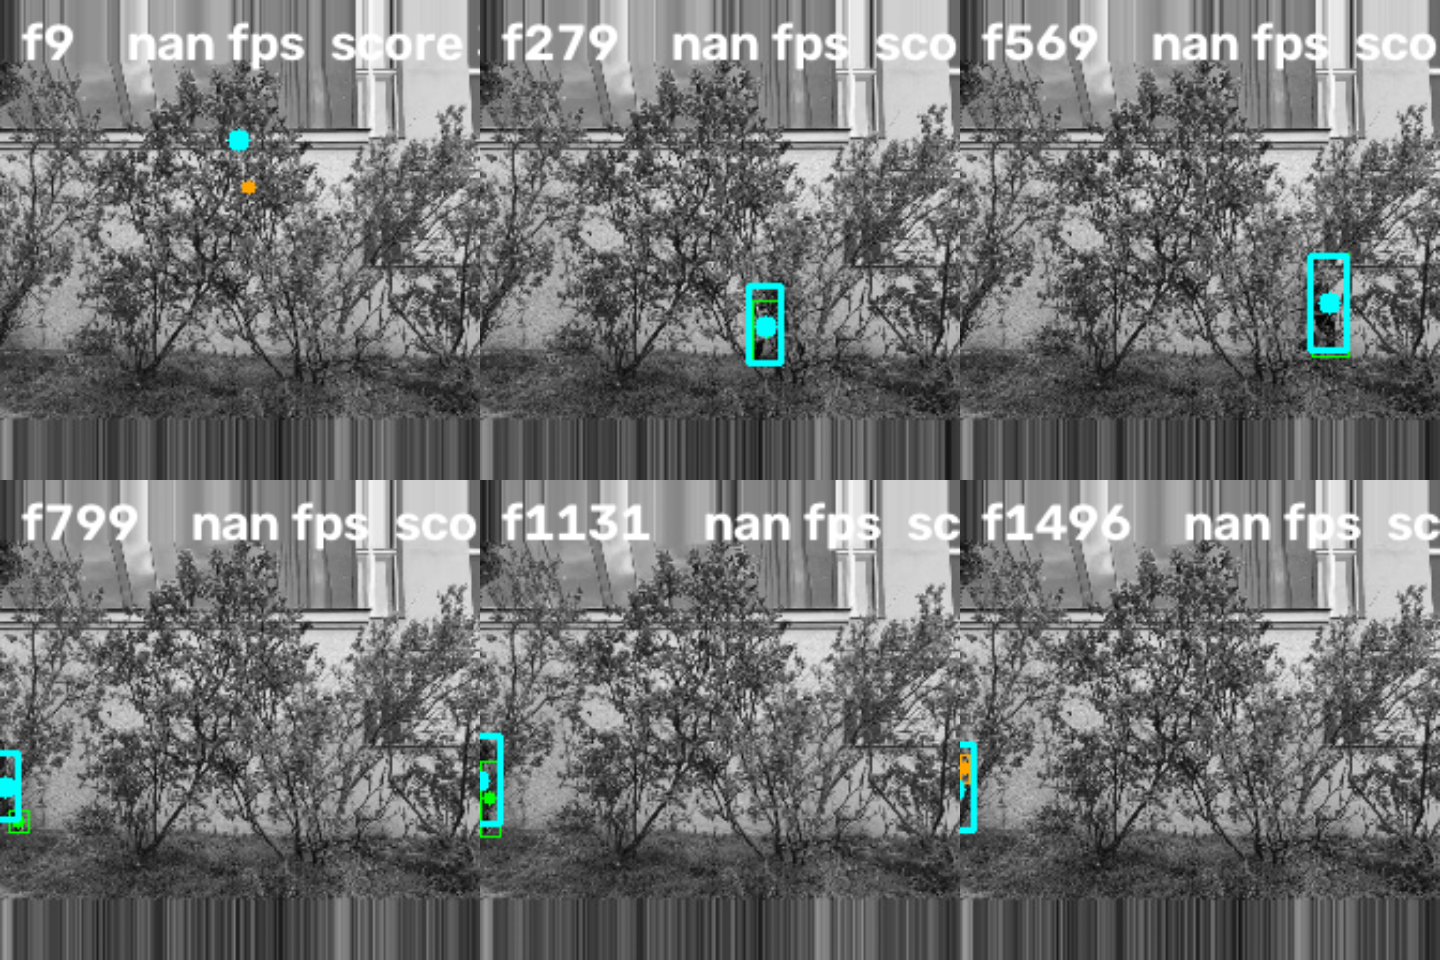
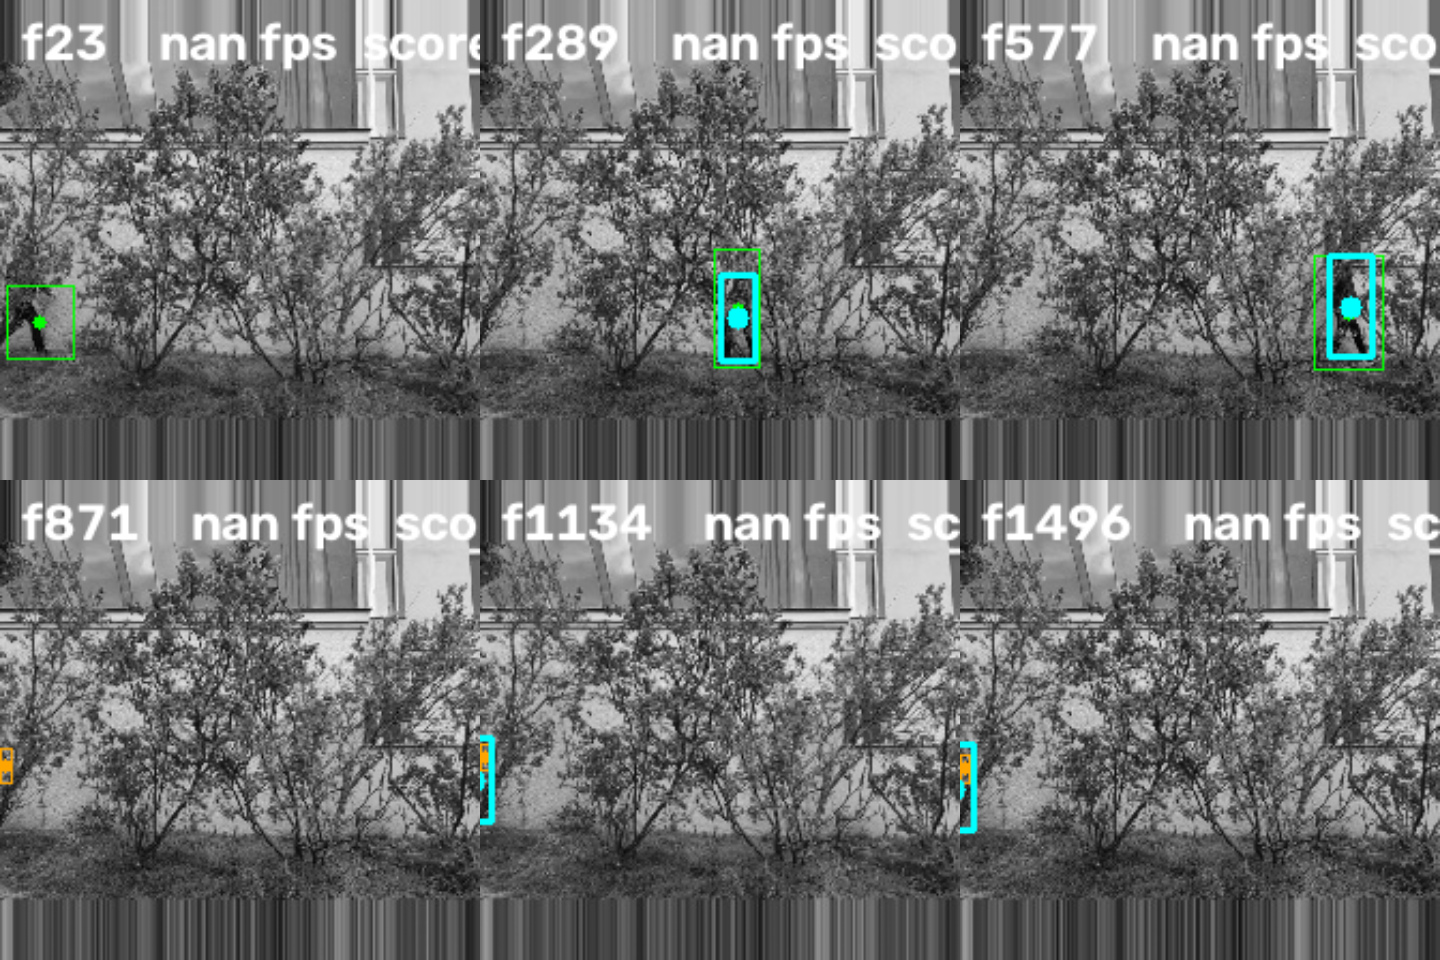
Add the frozen-window demo, warm-up suppression, and optional M-of-N initiation
FROZEN-WINDOW DEMO. tracking/eval/make_frozen_clip.py builds a clip that freezes on one frame
per walk for 2*BUFFER=26 frames, so at least 14 emitted windows consist only of duplicates:
data/ido_walk_frozen.mkv, frozen blocks 110:135 and 355:380.

Measured, identically in both blocks: 23 of 26 emissions carry NO box (88%), and the only ones
that do are the first three, whose 13-frame window still reaches back into real motion. Nothing
special-cases this. MOG2 absorbs the static frame into its background at its learning rate -
detections per frame across the start of a freeze go 3, 3, 1, 0, 0, 0..., absorbed in THREE
frames - so no track reaches min_track_length=3, score_and_fit returns None, and x and box are
both None. The person is plainly visible and standing there; every parameter this tracker has is
defined on motion, so with no motion there is nothing to report. Pinned by
check_a_frozen_window_yields_no_box. Render with --no-smooth for the clean version: the smoother
otherwise coasts a box through the first 8 frames of the freeze before dropping output entirely
for the remaining 13, which is graceful but obscures the point.

EARLY FALSE POSITIVES, and the measurement says they are a different animal from the mid-clip
ones. On ido_walk before the person enters at f31: 25 emissions, 11 with a box. Suppressing
output until MOG2 has seen bg_frames real frames moves the first emission from frame 6 to 23 and
[…]

diff --git a/tracking/stream/stream.py b/tracking/stream/stream.py
@@ -64,7 +64,8 @@ class StreamPipeline:
 
     def __init__(self, person_height: float, bg_frames: int = 30, var_threshold: float = 16.0,
                  readout: str = 'center', min_solidity: float = 0.1, max_age: int = 6,
-                 min_track_length: int = 3, max_detections: int = 40):
+                 min_track_length: int = 3, max_detections: int = 40,
+                 suppress_warmup: bool = True):
         assert readout in ('center', 'newest'), readout
         self.kw, kalman = scale_relative_params(person_height)
         # ponytail: _Track's covariances are class attributes, so this is process-global.
@@ -75,6 +76,13 @@ class StreamPipeline:
         self.readout, self.min_solidity = readout, min_solidity
         self.max_age, self.min_track_length = max_age, min_track_length
         self.max_detections = max_detections
+        # MOG2's learning rate is ~1/history, so before `history` real frames have elapsed the
+        # background model is under-adapted and the mask is full of spurious foreground. That is
+        # the dominant source of early false positives, and track_sequence's own docstring
+        # already says any window before bg_frames have elapsed is under-adapted. Suppressing
+        # output until then costs the first bg_frames-1-SPAN emissions and introduces no new
+        # constant.
+        self.warmup = bg_frames if suppress_warmup else 0
         # one persistent subtractor: preprocess.foreground_mask builds a fresh MOG2 per
         # call, which is exactly what a stream must not do
         self.mog = cv2.createBackgroundSubtractorMOG2(history=bg_frames,
@@ -94,7 +102,7 @@ class StreamPipeline:
         self.frames.append(frame)
         self.dets.append(dets)
         self.seen += 1
-        if len(self.frames) < BUFFER:
+        if len(self.frames) < BUFFER or self.seen < self.warmup:
             return None
 
         window = [self.dets[i] for i in range(0, BUFFER, NTH_FRAME)]
@@ -145,13 +153,15 @@ class Smoother:
 
     def __init__(self, person_height: float, fps: float, halflife_s: float = 0.15,
                  trend_halflife_s: float = 0.5, size_halflife_s: float = 0.4,
-                 jump_max: float = 0.75, hold_s: float = 0.35):
+                 jump_max: float = 0.75, hold_s: float = 0.35,
+                 init_m: int = 3, init_n: int = 5):
         dt = 1.0 / max(fps, 1e-6)
         self.a = 1.0 - 0.5 ** (dt / max(halflife_s, 1e-6))
         self.b = 1.0 - 0.5 ** (dt / max(trend_halflife_s, 1e-6))
         self.c = 1.0 - 0.5 ** (dt / max(size_halflife_s, 1e-6))
         self.jump_max = jump_max * person_height
         self.hold = max(1, int(round(hold_s * fps)))
+        self.init_m, self.init_n = init_m, init_n
         self.reset()
 
     def reset(self):
@@ -159,16 +169,34 @@ class Smoother:
         self.trend = np.zeros(2)
         self.size = None
         self.misses = 0
+        self.init_buf = deque(maxlen=self.init_n)
 
     def update(self, xy, wh):
         """xy: (x, y) or None. wh: (w, h) or None. Returns ((x, y) | None, (w, h) | None,
         coasting)."""
         if self.level is None:
+            # M-of-N track initiation (Blackman and Popoli): do not declare a lock on a single
+            # measurement. An isolated warm-up false positive would otherwise BECOME the lock,
+            # and then the real person arrives as a large jump and gets gated out for hold_s.
+            # Requiring init_m of the last init_n measurements to agree within the gate rejects
+            # one-off spikes without needing a magnitude threshold on the score.
             if xy is None:
                 return None, None, False
-            self.level, self.trend = np.array(xy, float), np.zeros(2)
-            if wh is not None:
-                self.size = np.array(wh, float)
+            self.init_buf.append((np.array(xy, float), wh))
+            pts = np.array([q for q, _ in self.init_buf])
+            med = np.median(pts, axis=0)
+            close = [i for i, q in enumerate(pts)
+                     if float(np.hypot(*(q - med))) <= self.jump_max]
+            if len(close) < self.init_m:
+                return None, None, False
+            sel = pts[close]
+            self.level = sel[-1]
+            # seed the trend from the consistent run, so the filter starts with the right
+            # velocity instead of spending its first half-life catching up
+            self.trend = (sel[-1] - sel[0]) / max(len(sel) - 1, 1)
+            last_wh = self.init_buf[close[-1]][1]
+            if last_wh is not None:
+                self.size = np.array(last_wh, float)
             return self._out(False)
 
         pred = self.level + self.trend
@@ -348,7 +376,8 @@ def run(video, person_height: float = None, scale: float = 0.5, readout: str = '
         out_dir: str = 'images/stream', tag: str = '', display: bool = False,
         src_fps: float = 24.0, present=(), out_fps: float = None, smooth: bool = True,
         halflife: float = 0.15, trend_halflife: float = 0.5, jump_max: float = 0.75,
-        gt_path: str = None, probe_frames: int = 240) -> dict:
+        gt_path: str = None, probe_frames: int = 240, montage_all: bool = False,
+        suppress_warmup: bool = True, init_m: int = 1) -> dict:
     source = frames_from_source(video, scale)
     warmup = []
     if person_height is None:
@@ -364,9 +393,11 @@ def run(video, person_height: float = None, scale: float = 0.5, readout: str = '
         if not 0.05 * h_frame <= person_height <= 0.95 * h_frame:
             print(f"  WARNING: that is implausible for a person; the estimator measures any "
                   f"large moving object, so pass --person-height explicitly")
-    pipe = StreamPipeline(person_height=person_height, readout=readout)
+    pipe = StreamPipeline(person_height=person_height, readout=readout,
+                          suppress_warmup=suppress_warmup)
     sm = Smoother(person_height, src_fps, halflife_s=halflife,
-                  trend_halflife_s=trend_halflife, jump_max=jump_max) if smooth else None
+                  trend_halflife_s=trend_halflife, jump_max=jump_max,
+                  init_m=init_m) if smooth else None
     gt = load_gt(gt_path) if gt_path else None
     if person_height / 7.5 < 40:
         print(f"note: head is ~{person_height / 7.5:.0f}px at this scale; face-level tasks "
@@ -412,7 +443,8 @@ def run(video, person_height: float = None, scale: float = 0.5, readout: str = '
     wall = time.perf_counter() - t_start
     boxed = [r for r in results if r.box is not None]
     extrap = [r for r in results if r.extrapolated]
-    montage([r for r in boxed if in_ranges(r.frame_index, present)],
+    montage([r for r in (results if montage_all else boxed)
+             if in_ranges(r.frame_index, present)],
             f"{out_dir}/{tag or readout}_montage.png")
     keep = lambda r: in_ranges(r.frame_index, present)
     xs = {r.frame_index: r.x for r in results if r.x is not None and keep(r)}
@@ -570,6 +602,13 @@ def main():
     p.add_argument('--person-height', type=float, default=None,
                    help='person height in pixels AFTER --scale; bootstrapped from the first '
                         '--probe-frames contiguous frames if omitted')
+    p.add_argument('--init-m', type=int, default=1,
+                   help='M-of-5 track initiation for the smoother; 1 disables it (lock on the '
+                        'first measurement)')
+    p.add_argument('--montage-all', action='store_true',
+                   help='sample the montage from every emission, including ones with no box')
+    p.add_argument('--no-warmup-suppression', dest='suppress_warmup', action='store_false',
+                   help="emit during MOG2's warm-up too (shows the early false positives)")
     p.add_argument('--probe-frames', type=int, default=240,
                    help='contiguous frames used to bootstrap the person height; they are then '
                         'fed through the pipeline as well, so they are not wasted')
@@ -607,7 +646,8 @@ def main():
             tag=a.tag, probe_frames=a.probe_frames,
             display=a.display, present=present, out_fps=a.out_fps, smooth=a.smooth,
             halflife=a.halflife, trend_halflife=a.trend_halflife, jump_max=a.jump_max,
-            src_fps=a.src_fps, gt_path=a.gt)
+            src_fps=a.src_fps, gt_path=a.gt, montage_all=a.montage_all,
+            suppress_warmup=a.suppress_warmup, init_m=a.init_m)
 
 
 if __name__ == '__main__':

diff --git a/tracking/eval/make_frozen_clip.py b/tracking/eval/make_frozen_clip.py
@@ -1,0 +1,77 @@
+"""Build a version of a clip where the video FREEZES for longer than the tracker's window, to
+demonstrate that a window of duplicate frames yields no box at all.
+
+    python -m tracking.eval.make_frozen_clip --video data/ido_walk.mkv --at 110 330
+
+Why there should be no box, and it is not a special case in the code: MOG2 absorbs a static
+frame into its background model at its learning rate, so duplicate frames stop producing
+foreground. Measured on ido_walk with bg_frames=30, detections per frame across the start of a
+freeze go 3, 3, 1, 0, 0, 0, ... - absorbed in THREE frames. With no detections anywhere in the
+13-frame ring buffer, track_blobs finds no track of min_track_length=3, score_and_fit returns
+None, and the result carries x=None and box=None. Nothing thresholds or refuses; the estimate
+simply does not exist, because every parameter of this tracker is defined on motion.
+
+The boxes that do survive inside a freeze are exactly the emissions whose window still reaches
+back into real motion - measured, emissions for frames 110, 111 and 112 of a freeze starting at
+110, and no others, at any freeze length. That is a 3-frame tail, i.e. SPAN/2 rounded, and it is
+the honest edge of the demonstration rather than a flaw.
+"""
+import argparse
+import os
+
+import cv2
+import numpy as np
+
+from tracking.stream.stream import BUFFER, frames_from_source
+
+
+def freeze(frames, at, length):
+    """Insert `length` copies of frames[at] immediately after it. Returns the new list and the
+    (start, end) index range of the frozen block in the OUTPUT sequence."""
+    return frames[:at + 1] + [frames[at]] * (length - 1) + frames[at + 1:], (at, at + length - 1)
+
+
+def main():
+    p = argparse.ArgumentParser(description=__doc__,
+                                formatter_class=argparse.RawDescriptionHelpFormatter)
+    p.add_argument('--video', default='data/ido_walk.mkv')
+    p.add_argument('--out', default=None, help='default: <video stem>_frozen.mkv beside it')
+    p.add_argument('--at', type=int, nargs='+', default=[110, 330],
+                   help='frame index to freeze on, one per walk')
+    p.add_argument('--length', type=int, default=None,
+                   help=f'frozen block length; default 2*BUFFER = {2 * BUFFER}, so at least one '
+                        f'emitted window is entirely duplicates')
+    p.add_argument('--scale', type=float, default=0.5)
+    p.add_argument('--fps', type=float, default=24.0)
+    a = p.parse_args()
+    length = a.length or 2 * BUFFER
+
+    frames = list(frames_from_source(a.video, a.scale))
+    ranges = []
+    for at in sorted(a.at, reverse=True):        # descending, so earlier indices stay valid
+        assert 0 <= at < len(frames), f"--at {at} outside 0..{len(frames) - 1}"
+        frames, r = freeze(frames, at, length)
+        ranges.append(r)
+    # re-derive the ranges in the final sequence (each earlier freeze shifts the later ones)
+    shift, final = 0, []
+    for at in sorted(a.at):
+        final.append((at + shift, at + shift + length - 1))
+        shift += length - 1
+
+    out = a.out or os.path.splitext(a.video)[0] + '_frozen.mkv'
+    h, w = frames[0].shape
+    writer = cv2.VideoWriter(out, cv2.VideoWriter_fourcc(*'mp4v'), a.fps, (w, h))
+    assert writer.isOpened(), f"cannot open {out} for writing"
+    for f in frames:
+        writer.write(cv2.cvtColor(f, cv2.COLOR_GRAY2BGR))
+    writer.release()
+    print(f"wrote {out}: {len(frames)} frames {w}x{h} @ {a.fps:g}fps "
+          f"({len(frames) - shift} original + {shift} duplicated)")
+    print(f"frozen blocks in the OUTPUT sequence (pass to --present): "
+          + " ".join(f"{lo}:{hi}" for lo, hi in final))
+    print(f"each block is {length} frames, against a {BUFFER}-frame ring buffer, so at least "
+          f"{length - BUFFER + 1} emitted windows consist only of duplicates")
+
+
+if __name__ == '__main__':
+    main()

diff --git a/tracking/tests/sanity_check_stream.py b/tracking/tests/sanity_check_stream.py
@@ -144,8 +144,27 @@ def check_smoother_constants_are_frame_rate_independent():
     print(f"smoother ok: frame-rate independent ({['%.2f' % o for o in outs]} at 12/24/48 fps)")
 
 
+def check_a_frozen_window_yields_no_box():
+    """A window of duplicate frames must produce NO estimate, not a zero-score one. Nothing in
+    the code special-cases this: MOG2 absorbs a static frame into its background model, so
+    duplicates stop producing foreground, no track reaches min_track_length, and score_and_fit
+    returns None. Every parameter of this tracker is defined on motion, so with no motion there
+    is nothing to report - which is the honest behaviour and worth pinning."""
+    moving = make_moving_bar(T=40)
+    frozen = np.concatenate([moving, np.repeat(moving[-1:], 3 * BUFFER, axis=0)])
+    pipe = StreamPipeline(person_height=60.0, suppress_warmup=False)
+    results = [r for r in (pipe.step(f) for f in frozen) if r is not None]
+    inside = [r for r in results if r.frame_index >= len(moving) + SPAN]
+    assert inside, "no emissions landed fully inside the frozen block"
+    boxed = [r.frame_index for r in inside if r.box is not None]
+    assert not boxed, f"frames {boxed} still produced a box inside a fully frozen window"
+    assert all(r.x is None for r in inside), "a position was reported with no motion at all"
+    print(f"frozen window ok: {len(inside)} emissions fully inside the freeze, none with a box")
+
+
 def main():
     check_merged_center_box_is_additive()
+    check_a_frozen_window_yields_no_box()
     check_smoother_has_no_lag_on_constant_velocity()
     check_smoother_gates_an_outlier_but_relocks_on_a_sustained_jump()
     check_smoother_constants_are_frame_rate_independent()
